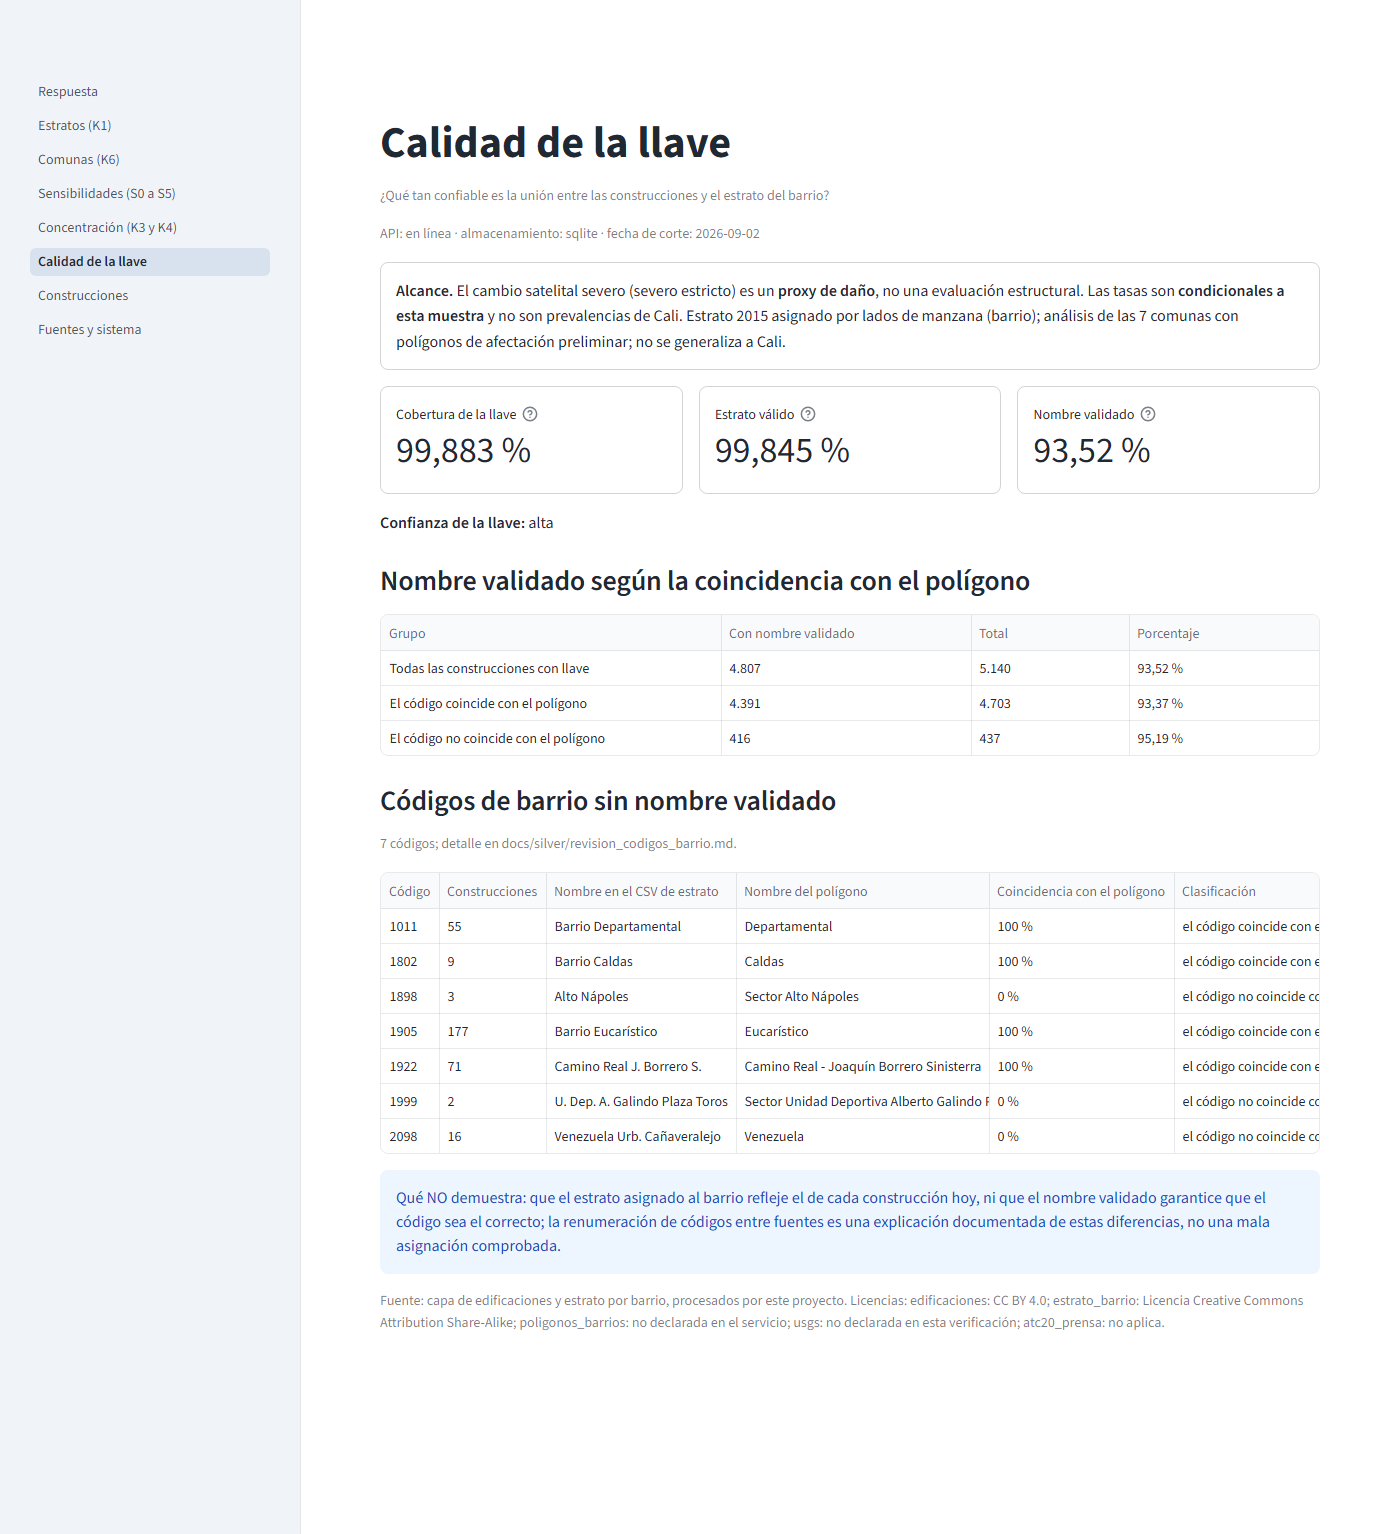
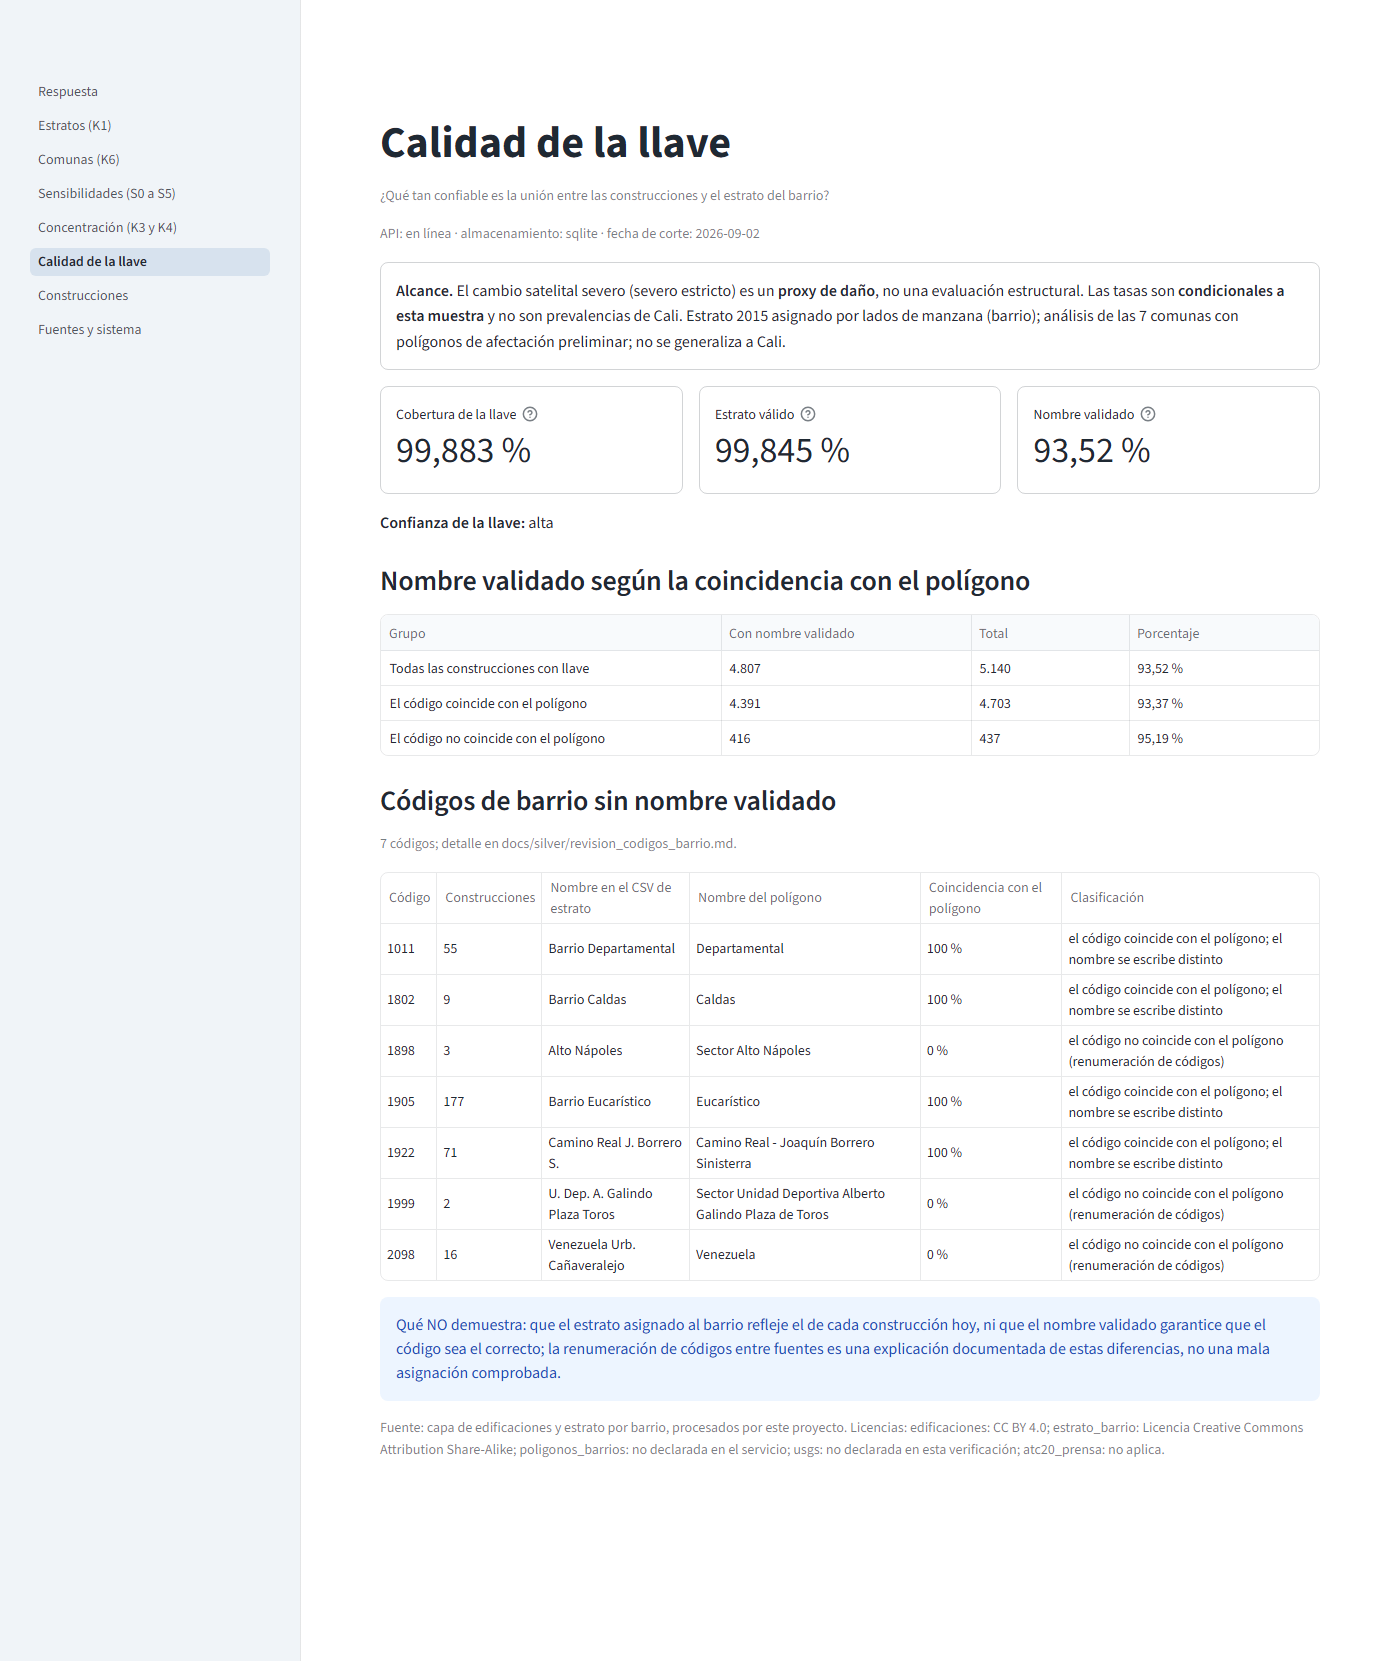
Etiquetas más cortas en las tarjetas de la página Respuesta y leyenda de la cobertura sin solaparse

diff --git a/tests/test_panel_integracion.py b/tests/test_panel_integracion.py
@@ -62,8 +62,8 @@ def test_respuesta_muestra_k2_igual_a_kpis_gold_y_a_lo_recalculado_de_gold_final
     m = _metricas(paginas[0]["respuesta"])
     t35, t12 = _k(datos, "K2", "estratos_3-5"), _k(datos, "K2", "estratos_1-2")
     dif, razon = _k(datos, "K2", "diferencia_3-5_menos_1-2"), _k(datos, "K2", "razon_3-5_vs_1-2")
-    assert m["Tasa de los estratos 3-5"].value == formato.porcentaje(_f(t35["valor"]))
-    assert m["Tasa de los estratos 1-2 (muestra baja)"].value == formato.porcentaje(_f(t12["valor"]))
+    assert m["Tasa 3-5"].value == formato.porcentaje(_f(t35["valor"]))
+    assert m["Tasa 1-2 (muestra baja)"].value == formato.porcentaje(_f(t12["valor"]))
     assert m["Diferencia (3-5 menos 1-2)"].value == formato.puntos_porcentuales(_f(dif["valor"]))
     assert m["Razón de tasas (3-5 / 1-2)"].value == formato.razon(_f(razon["valor"]))
     # recálculo independiente desde gold_final.csv
@@ -73,8 +73,8 @@ def test_respuesta_muestra_k2_igual_a_kpis_gold_y_a_lo_recalculado_de_gold_final
     k35, k12 = sum(_b(g["severo_estricto"]) for g in n35), sum(_b(g["severo_estricto"]) for g in n12)
     assert (k35, len(n35)) == (int(float(t35["numerador"])), int(float(t35["denominador"])))
     assert (k12, len(n12)) == (int(float(t12["numerador"])), int(float(t12["denominador"])))
-    assert m["Tasa de los estratos 3-5"].value == formato.porcentaje(k35 / len(n35))
-    assert m["Tasa de los estratos 1-2 (muestra baja)"].value == formato.porcentaje(k12 / len(n12))
+    assert m["Tasa 3-5"].value == formato.porcentaje(k35 / len(n35))
+    assert m["Tasa 1-2 (muestra baja)"].value == formato.porcentaje(k12 / len(n12))
     assert m["Diferencia (3-5 menos 1-2)"].value == formato.puntos_porcentuales(k35 / len(n35) - k12 / len(n12))
 
 

diff --git a/tests/test_panel_paginas.py b/tests/test_panel_paginas.py
@@ -87,7 +87,7 @@ def test_cada_pagina_muestra_la_fecha_de_corte_el_estado_de_la_api_y_la_fuente(r
 
 
 @pytest.mark.parametrize("pagina,fragmentos", [
-    ("respuesta", ["Tasa de los estratos 3-5", "Tasa de los estratos 1-2 (muestra baja)", "Diferencia (3-5 menos 1-2)", "Razón de tasas (3-5 / 1-2)", "Cobertura de la llave", "Estrato válido", "Nombre validado"]),
+    ("respuesta", ["Tasa 3-5", "Tasa 1-2 (muestra baja)", "Diferencia (3-5 menos 1-2)", "Razón de tasas (3-5 / 1-2)", "Cobertura de la llave", "Estrato válido", "Nombre validado"]),
     ("concentracion", ["Correlación de Spearman", "Barrios incluidos", "p de permutación", "Participación de los barrios con más severos"]),
     ("calidad", ["Cobertura de la llave", "Estrato válido", "Nombre validado"]),
     ("fuentes", ["Fecha de corte", "Construcciones", "Comunas", "Códigos de barrio"]),

diff --git a/src/panel/paginas/respuesta.py b/src/panel/paginas/respuesta.py
@@ -27,9 +27,9 @@ def render(api):
         st.subheader("Estratos 3-5 frente a 1-2")
         c1, c2, c3, c4 = st.columns(4)
         with c1:
-            componentes.tarjeta("Tasa de los estratos 3-5", formato.porcentaje(t35["valor"]), _detalle(t35))
+            componentes.tarjeta("Tasa 3-5", formato.porcentaje(t35["valor"]), _detalle(t35))
         with c2:
-            etiqueta = "Tasa de los estratos 1-2" + (f" ({componentes.ETIQUETA_BAJA})" if t12["muestra_baja"] else "")
+            etiqueta = "Tasa 1-2" + (f" ({componentes.ETIQUETA_BAJA})" if t12["muestra_baja"] else "")
             componentes.tarjeta(etiqueta, formato.porcentaje(t12["valor"]), _detalle(t12))
         with c3:
             componentes.tarjeta("Diferencia (3-5 menos 1-2)", formato.puntos_porcentuales(dif["valor"]),

diff --git a/tests/test_panel_humo_extremo_a_extremo.py b/tests/test_panel_humo_extremo_a_extremo.py
@@ -90,7 +90,7 @@ def test_los_valores_por_http_real_coinciden_con_las_salidas(servidor_real):
     api = pa.como_consulta(cliente)
     kpis = {(r["kpi_id"], r["grupo"]): r for r in _csv(RAIZ / "data" / "gold" / "kpis_gold.csv")}
     m = {x.label: x.value for x in pa.pagina("respuesta", api, tiempo=60).metric}
-    assert m["Tasa de los estratos 3-5"] == formato.porcentaje(float(kpis[("K2", "estratos_3-5")]["valor"]))
+    assert m["Tasa 3-5"] == formato.porcentaje(float(kpis[("K2", "estratos_3-5")]["valor"]))
     assert m["Diferencia (3-5 menos 1-2)"] == formato.puntos_porcentuales(float(kpis[("K2", "diferencia_3-5_menos_1-2")]["valor"]))
     assert m["Estrato válido"] == "99,845 %"
     gold = _csv(RAIZ / "data" / "gold" / "gold_final.csv")

diff --git a/scripts/evidencias/make_imagenes_panel.py b/scripts/evidencias/make_imagenes_panel.py
@@ -54,8 +54,9 @@ def cobertura():
     fig, ax = plt.subplots(figsize=(10, 6))
     ax.barh([f["modulo"] for f in filas], valores, color=[NARANJA if v < 70 else AZUL for v in valores])
     for i, v in enumerate(valores):
-        ax.text(min(v + 1, 97), i, f"{v:.0f} %".replace(".", ","), va="center", fontsize=7.5)
-    ax.set_xlim(0, 100)
+        ax.text(v + 1, i, f"{v:.0f} %".replace(".", ","), va="center", fontsize=7.5)
+    ax.set_xlim(0, 110)
+    ax.set_xticks(range(0, 101, 20))
     ax.set_xlabel("cobertura de líneas (%)")
     ax.set_title("Cobertura de líneas de las pruebas por módulo del panel y su lanzador (naranja: menos de 70 %)", fontsize=10, loc="left")
     ax.tick_params(axis="y", labelsize=7.5)
